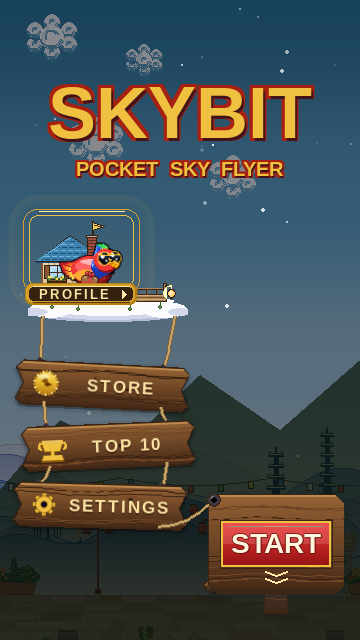
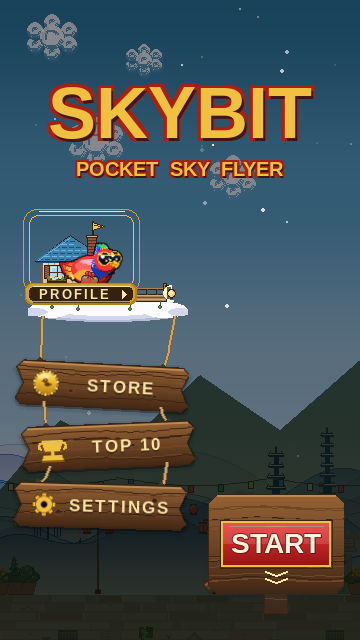
harbour-post: drop the START mooring rope and the profile-frame glow
Two cleanups on the current (approved) design, drawn straight into
draw_start_B and draw_profile_frame:

- The chain's right tail no longer runs down to an iron ring on the START
  post. START already reads as planted on its own post; the extra rope was
  a second attachment point competing with the post itself.
- draw_profile_frame's 14-step nested-rect glow around the profile card is
  gone. It was a flat gold wash with no material source (nothing in the
  scene casts that light), and it bled outside the frame's own border.

Verified: no rope-coloured or ring-coloured pixels remain on the old path;
the frame's border luma profile is now a flat background with a sharp 1-3px
edge spike, not a graded halo. Refreshed the checked-in _b_0.20.png and
confirm.png so the repo's reference renders match.

diff --git a/tools/menu-design/launch_perch_start.py b/tools/menu-design/launch_perch_start.py
@@ -535,7 +535,7 @@ def draw_start_A(surf, tails):
 
 def draw_start_B(surf, tails):
     """harbour-post — START leaves the chain entirely and is planted in the
-    dead bottom-right quadrant, with the chain's last rope mooring to it."""
+    dead bottom-right quadrant, standing on its own post."""
     rect = pygame.Rect(208, 494, 136, 100)
     post = timber_board(24, 120, seed=7, plain=True)
     surf.blit(post, (264, 494))
@@ -556,10 +556,6 @@ def draw_start_B(surf, tails):
                            (rect.width // 2 + 11, cy2 - 4)], 2)
     surf.blit(board, rect.topleft)
     under_shade(surf, rect, height=6, alpha=42)
-    # The chain's right tail runs down and ties off on the post head.
-    ring = (214, 500)
-    rope(surf, tails[1], ring, sag=7, width=3)
-    _iron_ring(surf, *ring, r=6)
     return rect
 
 
@@ -627,15 +623,6 @@ def draw_profile_frame(surf):
     # floating free below the frame, which is what the chain hangs from.
     fr.width = min(fr.width, 168 - fr.left)
     fr.height = (cloud.top - 2) - fr.top
-
-    pad = 14
-    glow = pygame.Surface((fr.width + pad * 2, fr.height + pad * 2), pygame.SRCALPHA)
-    for k in range(pad, 0, -1):
-        a = int(0.9 * 74 * k / pad / 3.6)
-        pygame.draw.rect(glow, (*GOLD_BRIGHT, a),
-                         (pad - k, pad - k, fr.width + k * 2, fr.height + k * 2),
-                         border_radius=15 + k)
-    surf.blit(glow, (fr.x - pad, fr.y - pad))
 
     pygame.draw.rect(surf, GOLD_MID, fr, width=1, border_radius=14)
     pygame.draw.rect(surf, GOLD_BRIGHT, fr.inflate(-12, -12), width=1, border_radius=9)
